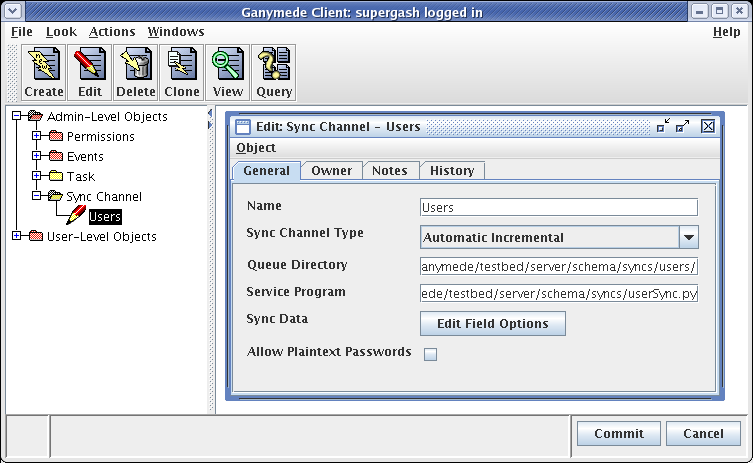
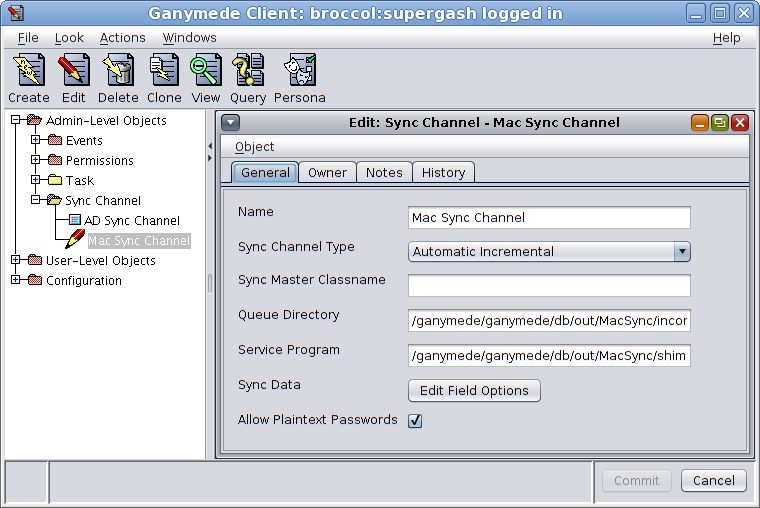
Updated docs some, including mention of SyncMaster field in Sync Channel objects.

diff --git a/doc/synchronization/index.html b/doc/synchronization/index.html
@@ -11,7 +11,7 @@
 
       <div id="title">
         <h1>Ganymede 2.0 Sync Channel Guide</h1>
-        <p>Release 2.0 - 1 April 2008<br/>$Rev$</p>
+        <p>Release 2.0 - 30 September 2010</p>
       </div>
 
       <div id="abstract">
@@ -33,10 +33,6 @@
         is not the case, you might want to read the <a
         href="../xml/schema.html">Ganymede XML Schema</a> document for
         some details on how a Ganymede schema is specified.</p>
-
-        <p class="note">A more general Ganymede data model / schema
-        document still needs to be put together at the time of this
-        writing (11 April 2005).</p>
       </div>
 
       <p>By <a href="mailto:jonabbey@arlut.utexas.edu">Jonathan Abbey</a></p>
@@ -86,8 +82,7 @@
     target directory will just catch up the next time a
     synchronization occurs.  The inherent redundancy of this approach
     can make the synchronization process very robust, but the downside
-    is that a full state synchronization can be very time
-    consuming.</p>
+    is that a full state synchronization can be time consuming.</p>
 
     <p>In addition, if it isn't possible to efficiently wipe and
     reload the target directory service, a process of comparison must
@@ -263,6 +258,13 @@
       <li><code class="type">Sync Channel Type</code> -- Your choice
       among 'Manual', 'Automatic Full State', and 'Automatic
       Incremental'.</li>
+
+      <li><code class="type">Sync Master Classname</code> -- Optional,
+      the name of a Java class file in your Ganymede server's
+      CLASSPATH that implements
+      the <a href="../javadoc/arlut/csd/ganymede/server/SyncMaster">SyncMaster</a>
+      interface.  A SyncMaster class is used to inject additional
+      context into the XML files produced by a given Sync Channel.</p>
 
       <li><code class="type">Queue Directory</code> -- Path to the
       directory that the Ganymede server will write incremental
@@ -933,7 +935,6 @@
 
     <hr/>
     <address><a href="mailto:jonabbey@arlut.utexas.edu">Jonathan Abbey</a></address>
-    <p class="address">$Date$, $Rev$, $Author$</p>
   </body>
 
 </html>

diff --git a/doc/customization.html b/doc/customization.html
@@ -7,7 +7,7 @@
 
   <body bgcolor="#FFFFFF">
     <img src="gifs/ganymede_title.gif" height="200" width="560" alt="Ganymede"/>
-    <h1><font face="Arial, Helvetica">Customization Guide<br/>Ganymede Release 2.0 - 1 July 2009<br/>$Rev$</font></h1>
+    <h1><font face="Arial, Helvetica">Customization Guide<br/>Ganymede Release 2.0 - 29 September 2010</font></h1>
     <hr/>
 
     <p>The Ganymede server has many advantages over the GASH project, including a graphical

diff --git a/doc/index.html b/doc/index.html
@@ -8,7 +8,7 @@
   <body bgcolor="#FFFFFF">
     <img src="gifs/ganymede_title.gif" height="200" width="560" alt="Ganymede"/>
 
-    <h1><font face="Arial, Helvetica">Ganymede Documentation<br/>Release 2.0<br/>$Rev$<br/>$Date$</font></h1>
+    <h1><font face="Arial, Helvetica">Ganymede Documentation<br/>Release 2.0</font></h1>
 
     <table border="1" cellpadding="3" cellspacing="0" width="100%">
       <tr bgcolor="#CCFFCC">

diff --git a/src/ganymede/arlut/csd/ganymede/server/SyncMaster.java b/src/ganymede/arlut/csd/ganymede/server/SyncMaster.java
@@ -51,46 +51,46 @@ import arlut.csd.ganymede.common.FieldBook;
 import arlut.csd.ganymede.common.Invid;
 
 /*------------------------------------------------------------------------------
-									   class
+								       interface
 								      SyncMaster
 
 ------------------------------------------------------------------------------*/
 
 /**
- * This interface is used to expand the list of objects (and fields)
- * that are emitted to an incremental sync channel output stream.
+ * <p>This interface is used to expand the list of objects (and fields)
+ * that are emitted to an incremental sync channel output stream.</p>
  *
- * The idea for this interface is that we may need to provide
- * additional context for an incremental synchronization.
+ * <p>The idea for this interface is that we may need to provide
+ * additional context for an incremental synchronization.</p>
  *
- * Imagine a transaction in which a user is modified.  A Sync Channel
+ * <p>Imagine a transaction in which a user is modified.  A Sync Channel
  * is defined which specifies an interest in one of the user object's
  * fields which was modified by the transaction.  The Sync Channel
  * will write out an XML file describing all the changes to the user
- * object that the Sync Channel definition is interested in.
+ * object that the Sync Channel definition is interested in.</p>
  *
- * What happens if the synchronization software that reads that XML
+ * <p>What happens if the synchronization software that reads that XML
  * file needs information to complete the synchronization that comes
  * from other objects in the Ganymede data store?  Those objects may
  * not have changed in the transaction, so the Sync Channel will not
- * know to include that infromation in the XML.
+ * know to include that infromation in the XML.</p>
  *
- * That's where the SyncMaster interface comes in.  A Sync Channel can
+ * <p>That's where the SyncMaster interface comes in.  A Sync Channel can
  * be configured with the fully qualified classname of a Java class
  * implementing this interface.  When this is done, the Sync Channel
  * calls augment() on the SyncMaster for every object to be written to
  * the XML file.  The augment() method examines each DBEditObject and
  * will call methods on the FieldBook parameter to request other
  * objects and fields to be included in the XML transaction file for
- * the benefit of the script servicing the Sync Channel queue.
+ * the benefit of the script servicing the Sync Channel queue.</p>
  *
- * The objects added to the XML file by a SyncMaster will be contained
+ * <p>The objects added to the XML file by a SyncMaster will be contained
  * in a &lt;context_objects&gt; element, unless the context object
  * itself was modified in the transaction.  Sync Channels that need
  * context augmentation should have queue service programs that can
  * deal with these objects being written out either in the
  * &lt;context_objects&gt; element or in an &lt;object_delta&gt;
- * element along with the rest of the changes made by the transaction.
+ * element along with the rest of the changes made by the transaction.</p>
  */
 
 public interface SyncMaster {

diff --git a/src/ganymede/arlut/csd/ganymede/server/SyncRunner.java b/src/ganymede/arlut/csd/ganymede/server/SyncRunner.java
@@ -224,8 +224,8 @@ import com.jclark.xml.output.UTF8XMLWriter;
  * expensive process of reconciliation to bring the directory service
  * target into compliance with the data in the Ganymede server.</p>
  *
- * <p>See the Ganymede synchronization guide for more details on all
- * of this.</p>
+ * <p>See the <a href="../../../../../synchronization/index.html" target="_top">Ganymede
+ * synchronization guide</a> for more details on all of this.</p>
  */
 
 public class SyncRunner implements Runnable {
